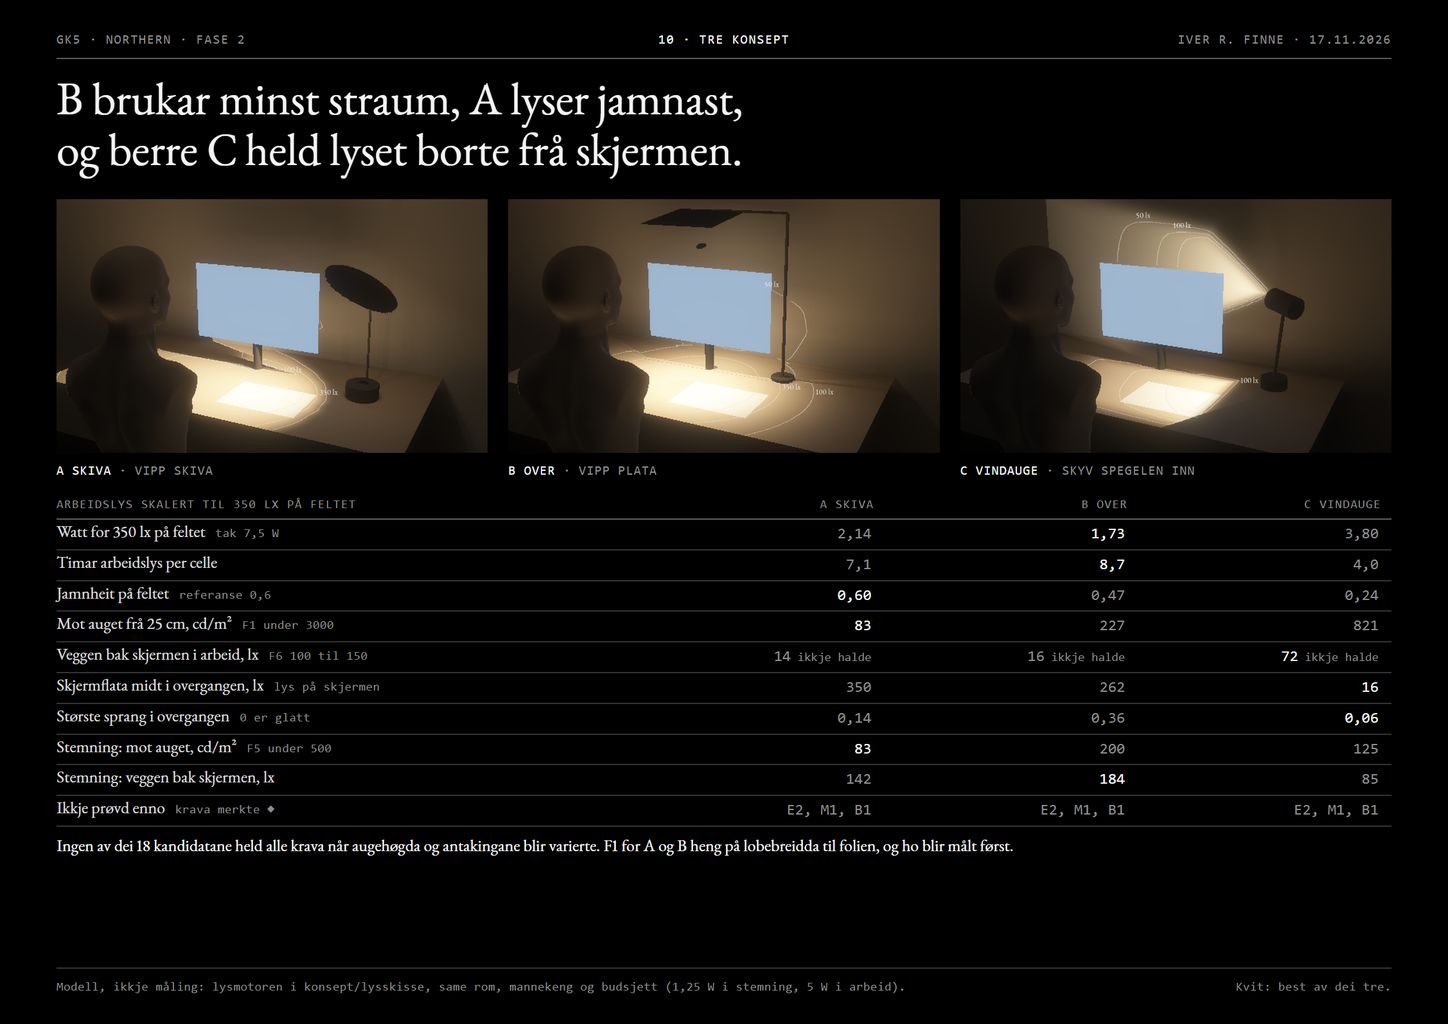
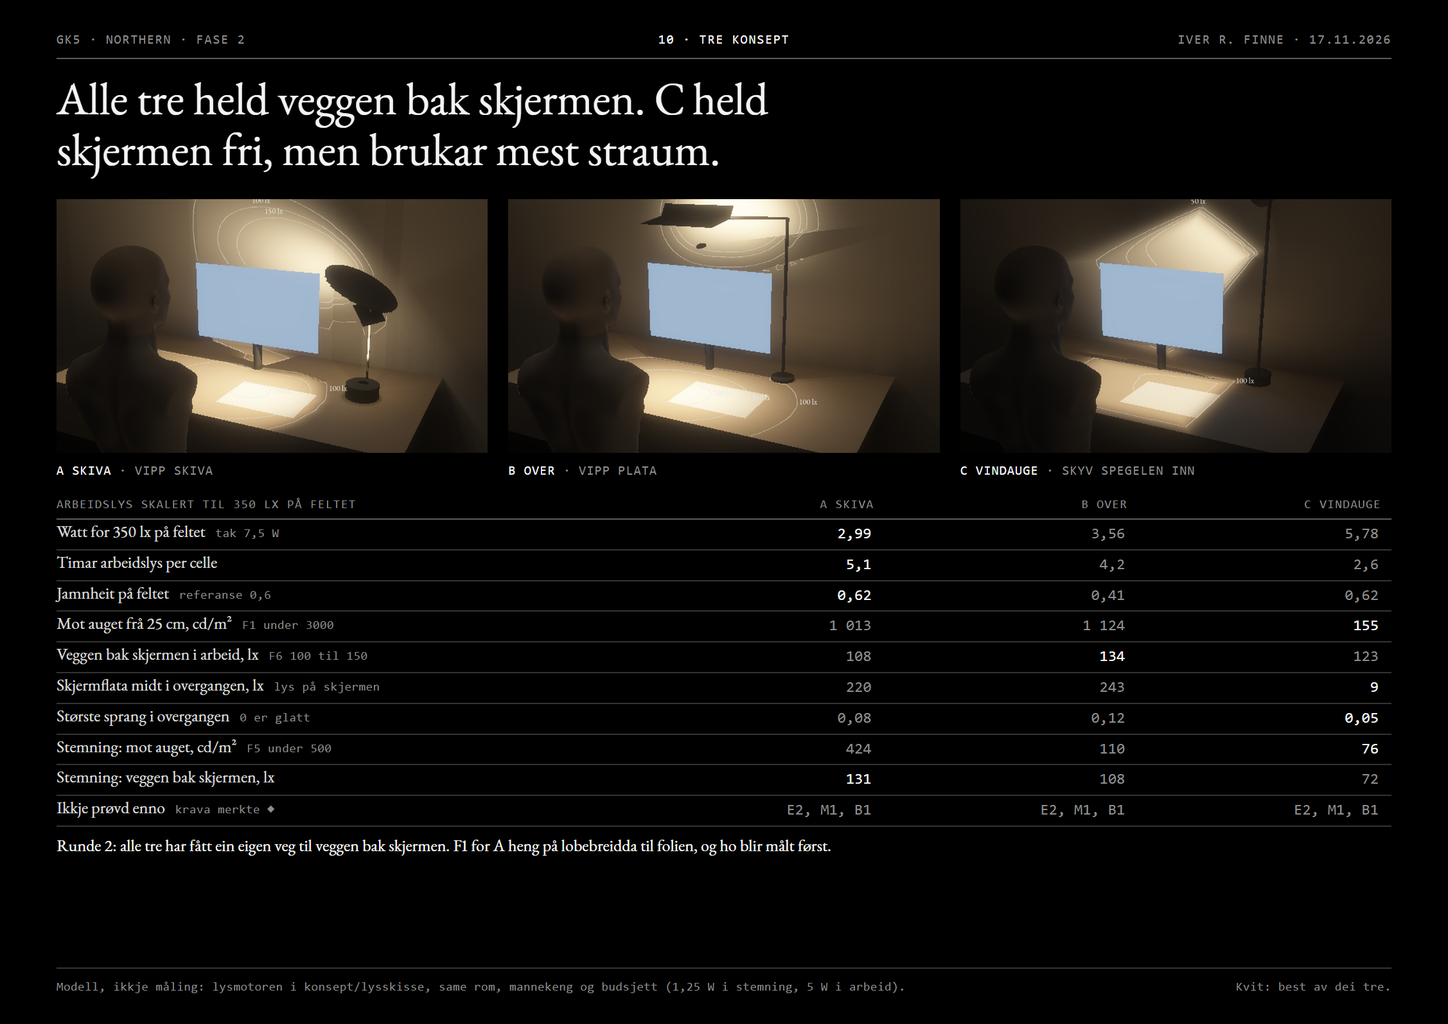
Autolagring 13.11 13:22: 11 filer

diff --git a/leveransar/03_konsept/side-11-konsept-a-skiva.html b/leveransar/03_konsept/side-11-konsept-a-skiva.html
@@ -28,30 +28,30 @@
     <span>Iver R. Finne · 17.11.2026</span>
   </header>
 
-  <h1 class="tittel">Skiva lyser jamnast av dei tre, men sveipar over skjermen på veg ned.</h1>
+  <h1 class="tittel">Skiva lyser jamnast og skiftar mjukast, men legg lys på skjermen.</h1>
 
   <main class="innhald">
     <div class="k12">
       <div class="rad1">
-        <figure><img src="bilete/A-stemning.png" alt=""><figcaption><b>Stemning</b> · 1,25&nbsp;W · 2200&nbsp;K · veggen bak skjermen 117&nbsp;lx</figcaption></figure>
-        <figure><img src="bilete/A-arbeid.png" alt=""><figcaption><b>Arbeid</b> · 3000&nbsp;K · feltet 504&nbsp;lx ved 5&nbsp;W</figcaption></figure>
+        <figure><img src="bilete/A-stemning.png" alt=""><figcaption><b>Stemning</b> · 1,25&nbsp;W · 2200&nbsp;K · veggen bak skjermen 131&nbsp;lx</figcaption></figure>
+        <figure><img src="bilete/A-arbeid.png" alt=""><figcaption><b>Arbeid</b> · 3000&nbsp;K · feltet 586&nbsp;lx ved 5&nbsp;W</figcaption></figure>
         <section>
           <p class="etikett">Gesten</p>
           <p class="gest">Vipp skiva.</p>
           <div class="tal4">
-            <div>3,47&nbsp;W<small>for 350&nbsp;lx på feltet · tak 7,5</small></div>
-            <div>0,63<small>jamnheit · referanse 0,6</small></div>
-            <div>672&nbsp;cd/m²<small>høgst mot auget, 25 til 60&nbsp;cm · F1 3000</small></div>
-            <div>4,3&nbsp;t<small>arbeidslys per 21700-celle</small></div>
+            <div>2,99&nbsp;W<small>for 350&nbsp;lx på feltet · tak 7,5</small></div>
+            <div>0,62<small>jamnheit · referanse 0,6</small></div>
+            <div>1&nbsp;013&nbsp;cd/m²<small>høgst mot auget, 25 til 60&nbsp;cm · F1 3000</small></div>
+            <div>5,1&nbsp;t<small>arbeidslys per 21700-celle</small></div>
           </div>
           <p class="etikett" style="margin-top: 10px;">Langs overgangen, lx</p>
-          <svg width="270" height="128" viewBox="0 0 270 128" xmlns="http://www.w3.org/2000/svg"><line x1="6" y1="104" x2="206" y2="104" class="strek"/><line x1="6" y1="74.1" x2="206" y2="74.1" class="haar"/><text x="6" y="71.1" class="graa">350&nbsp;lx</text><line x1="6" y1="18.5" x2="206" y2="18.5" class="haar"/><text x="6" y="15.5" class="graa">1000&nbsp;lx</text><polyline points="6.0,103.2 56.0,102.4 106.0,96.6 156.0,81.7 206.0,60.9" fill="none" stroke="#F4F4F4" stroke-width="1.6"/><circle cx="6.0" cy="103.2" r="2.2" fill="#F4F4F4"/><circle cx="56.0" cy="102.4" r="2.2" fill="#F4F4F4"/><circle cx="106.0" cy="96.6" r="2.2" fill="#F4F4F4"/><circle cx="156.0" cy="81.7" r="2.2" fill="#F4F4F4"/><circle cx="206.0" cy="60.9" r="2.2" fill="#F4F4F4"/><text x="213.0" y="63.9" fill="#F4F4F4">feltet</text><polyline points="6.0,96.1 56.0,89.4 106.0,84.7 156.0,85.1 206.0,88.5" fill="none" stroke="#9A9A9A" stroke-width="1.6" stroke-dasharray="4 3"/><circle cx="6.0" cy="96.1" r="2.2" fill="#9A9A9A"/><circle cx="56.0" cy="89.4" r="2.2" fill="#9A9A9A"/><circle cx="106.0" cy="84.7" r="2.2" fill="#9A9A9A"/><circle cx="156.0" cy="85.1" r="2.2" fill="#9A9A9A"/><circle cx="206.0" cy="88.5" r="2.2" fill="#9A9A9A"/><text x="213.0" y="91.5" fill="#9A9A9A">skjermflata</text><text x="6" y="119" class="graa">stemning</text><text x="206" y="119" class="graa" text-anchor="end">arbeid</text></svg>
+          <svg width="270" height="128" viewBox="0 0 270 128" xmlns="http://www.w3.org/2000/svg"><line x1="6" y1="104" x2="206" y2="104" class="strek"/><line x1="6" y1="74.1" x2="206" y2="74.1" class="haar"/><text x="6" y="71.1" class="graa">350&nbsp;lx</text><line x1="6" y1="18.5" x2="206" y2="18.5" class="haar"/><text x="6" y="15.5" class="graa">1000&nbsp;lx</text><polyline points="6.0,103.2 56.0,102.2 106.0,95.5 156.0,78.2 206.0,53.9" fill="none" stroke="#F4F4F4" stroke-width="1.6"/><circle cx="6.0" cy="103.2" r="2.2" fill="#F4F4F4"/><circle cx="56.0" cy="102.2" r="2.2" fill="#F4F4F4"/><circle cx="106.0" cy="95.5" r="2.2" fill="#F4F4F4"/><circle cx="156.0" cy="78.2" r="2.2" fill="#F4F4F4"/><circle cx="206.0" cy="53.9" r="2.2" fill="#F4F4F4"/><text x="213.0" y="56.9" fill="#F4F4F4">feltet</text><polyline points="6.0,95.1 56.0,89.1 106.0,85.2 156.0,84.3 206.0,87.5" fill="none" stroke="#9A9A9A" stroke-width="1.6" stroke-dasharray="4 3"/><circle cx="6.0" cy="95.1" r="2.2" fill="#9A9A9A"/><circle cx="56.0" cy="89.1" r="2.2" fill="#9A9A9A"/><circle cx="106.0" cy="85.2" r="2.2" fill="#9A9A9A"/><circle cx="156.0" cy="84.3" r="2.2" fill="#9A9A9A"/><circle cx="206.0" cy="87.5" r="2.2" fill="#9A9A9A"/><text x="213.0" y="90.5" fill="#9A9A9A">skjermflata</text><text x="6" y="119" class="graa">stemning</text><text x="206" y="119" class="graa" text-anchor="end">arbeid</text></svg>
         </section>
       </div>
       <div class="rad2">
-        <section><p class="etikett">Prinsipp</p><p class="kvit">Ei kjelde i foten lyser opp på ei bøygd spegelskive. Skiva vippar lyset frå veggen bak skjermen ned på arbeidsfeltet.</p><p class="graa">Fot, stong og skive: tre primærformer, som Northern. Næraste nabo: Verner Panton Reflect, som har fast, kvit skive.</p></section>
-        <section><p class="etikett">Skissemodell til 18.11</p><p>Folie på papp, Ø 250&nbsp;mm, på ein printa ribbe med boge R 1,2&nbsp;m. Telefonlykta i ein svart papprull i foten. Stolpen frå projektoren held skiva 41&nbsp;cm over bordet.</p><p class="graa">Føreseiing: Med bøyen er lågaste rute over 0,5 av snittet, flat under 0,45.</p></section>
-        <section><p class="etikett">Held ikkje enno</p><ul class="ikkje"><li>Midt i overgangen sveipar strålen over skjermen: 350&nbsp;lx på skjermflata.</li><li>I stemning ligg 142&nbsp;lx på skjermflata.</li><li>Veggen bak skjermen får 14&nbsp;lx i arbeid. F6 krev 100 til 150.</li><li>F1 kviler på lobebreidda. Folie på papp kan gje 1600 til 9000&nbsp;cd/m² frå 25&nbsp;cm.</li></ul></section>
+        <section><p class="etikett">Prinsipp</p><p class="kvit">Ei lykt i foten lyser på ei bøygd spegelskive som vippar lyset frå veggen ned på feltet. Ein fast flik på stolpen held veggen bak skjermen lys.</p><p class="graa">Fot, stong og skive som Northern. Fliken er eit fjerde element (mi tolking). Næraste nabo: Verner Panton Reflect, som har fast, kvit skive og ingen flik.</p></section>
+        <section><p class="etikett">Skissemodell til 18.11</p><p>Folie på papp, Ø 250&nbsp;mm, på ein printa ribbe med boge R 1,2&nbsp;m. To lykter i foten: éi på skiva, éi på fliken (12 × 8,4&nbsp;cm, folie og bakepapir) 30&nbsp;cm over bordet.</p><p class="graa">Føreseiing: Med bøyen er lågaste rute over 0,5 av snittet, flat under 0,45.</p></section>
+        <section><p class="etikett">Held ikkje enno</p><ul class="ikkje"><li>Spegelskiva legg 0,36 av feltluxen på skjermen i arbeid og 226&nbsp;lx midt i overgangen.</li><li>Fliken syner frå auget med 672&nbsp;cd/m² frå 25 og 47&nbsp;cm.</li><li>F1 krev ei skive med lobe under 4,5°. Folie på papp er ikkje målt.</li></ul></section>
       </div>
     </div>
   </main>

diff --git a/leveransar/03_konsept/side-10-tre-konsept.html b/leveransar/03_konsept/side-10-tre-konsept.html
@@ -24,7 +24,7 @@
     <span>Iver R. Finne · 17.11.2026</span>
   </header>
 
-  <h1 class="tittel">B brukar minst straum, A lyser jamnast, og berre C held lyset borte frå skjermen.</h1>
+  <h1 class="tittel">Alle tre held veggen bak skjermen. C held skjermen fri, men brukar mest straum.</h1>
 
   <main class="innhald">
     <div class="k12 tre">
@@ -35,9 +35,9 @@
     <section class="k12">
       <table class="samanlikning">
         <tr><th>Arbeidslys skalert til 350 lx på feltet</th><th class="tal">A Skiva</th><th class="tal">B Over</th><th class="tal">C Vindauge</th></tr>
-        <tr><td>Watt for 350 lx på feltet<small>tak 7,5 W</small></td><td class="tal best">3,47</td><td class="tal ">3,56</td><td class="tal ">5,78</td></tr><tr><td>Timar arbeidslys per celle<small></small></td><td class="tal best">4,3</td><td class="tal ">4,2</td><td class="tal ">2,6</td></tr><tr><td>Jamnheit på feltet<small>referanse 0,6</small></td><td class="tal best">0,63</td><td class="tal ">0,41</td><td class="tal ">0,62</td></tr><tr><td>Mot auget frå 25 cm, cd/m²<small>F1 under 3000</small></td><td class="tal ">672</td><td class="tal ">1&nbsp;124</td><td class="tal best">155</td></tr><tr><td>Veggen bak skjermen i arbeid, lx<small>F6 100 til 150</small></td><td class="tal ">105</td><td class="tal best">134</td><td class="tal ">123</td></tr><tr><td>Skjermflata midt i overgangen, lx<small>lys på skjermen</small></td><td class="tal ">226</td><td class="tal ">243</td><td class="tal best">9</td></tr><tr><td>Største sprang i overgangen<small>0 er glatt</small></td><td class="tal ">0,06</td><td class="tal ">0,12</td><td class="tal best">0,05</td></tr><tr><td>Stemning: mot auget, cd/m²<small>F5 under 500</small></td><td class="tal ">242</td><td class="tal ">110</td><td class="tal best">76</td></tr><tr><td>Stemning: veggen bak skjermen, lx<small></small></td><td class="tal best">117</td><td class="tal ">108</td><td class="tal ">72</td></tr><tr><td>Ikkje prøvd enno<small>krava merkte ◆</small></td><td class="tal graa">E2, M1, B1</td><td class="tal graa">E2, M1, B1</td><td class="tal graa">E2, M1, B1</td></tr>
+        <tr><td>Watt for 350 lx på feltet<small>tak 7,5 W</small></td><td class="tal best">2,99</td><td class="tal ">3,56</td><td class="tal ">5,78</td></tr><tr><td>Timar arbeidslys per celle<small></small></td><td class="tal best">5,1</td><td class="tal ">4,2</td><td class="tal ">2,6</td></tr><tr><td>Jamnheit på feltet<small>referanse 0,6</small></td><td class="tal best">0,62</td><td class="tal ">0,41</td><td class="tal ">0,62</td></tr><tr><td>Mot auget frå 25 cm, cd/m²<small>F1 under 3000</small></td><td class="tal ">1&nbsp;013</td><td class="tal ">1&nbsp;124</td><td class="tal best">155</td></tr><tr><td>Veggen bak skjermen i arbeid, lx<small>F6 100 til 150</small></td><td class="tal ">108</td><td class="tal best">134</td><td class="tal ">123</td></tr><tr><td>Skjermflata midt i overgangen, lx<small>lys på skjermen</small></td><td class="tal ">220</td><td class="tal ">243</td><td class="tal best">9</td></tr><tr><td>Største sprang i overgangen<small>0 er glatt</small></td><td class="tal ">0,08</td><td class="tal ">0,12</td><td class="tal best">0,05</td></tr><tr><td>Stemning: mot auget, cd/m²<small>F5 under 500</small></td><td class="tal ">424</td><td class="tal ">110</td><td class="tal best">76</td></tr><tr><td>Stemning: veggen bak skjermen, lx<small></small></td><td class="tal best">131</td><td class="tal ">108</td><td class="tal ">72</td></tr><tr><td>Ikkje prøvd enno<small>krava merkte ◆</small></td><td class="tal graa">E2, M1, B1</td><td class="tal graa">E2, M1, B1</td><td class="tal graa">E2, M1, B1</td></tr>
       </table>
-      <p class="liten kvit" style="margin-top: 8px;">Ingen av dei 18 kandidatane held alle krava når augehøgda og antakingane blir varierte. F1 for A og B heng på lobebreidda til folien, og ho blir målt først.</p>
+      <p class="liten kvit" style="margin-top: 8px;">Runde 2: alle tre har fått ein eigen veg til veggen bak skjermen. F1 for A heng på lobebreidda til folien, og ho blir målt først.</p>
     </section>
   </main>
 

diff --git a/leveransar/03_konsept/side-12-konsept-b-over.html b/leveransar/03_konsept/side-12-konsept-b-over.html
@@ -28,7 +28,7 @@
     <span>Iver R. Finne · 17.11.2026</span>
   </header>
 
-  <h1 class="tittel">Plata brukar minst straum og flyttar lyset heilt, men skiftet hoppar.</h1>
+  <h1 class="tittel">Plata held stemninga heilt av skjermen, men lyser ujamnt.</h1>
 
   <main class="innhald">
     <div class="k12">
@@ -49,9 +49,9 @@
         </section>
       </div>
       <div class="rad2">
-        <section><p class="etikett">Prinsipp</p><p class="kvit">Fresnelplata frå overheadprojektoren ligg over skjermkanten. Ho vippar lyset frå veggen bak skjermen ned på bordet.</p><p class="graa">Kroppen er byggjesettet, ikkje forma enno. Næraste nabo: BenQ ScreenBar Halo.</p></section>
-        <section><p class="etikett">Skissemodell til 18.11</p><p>Fresnelplata i ei pappramme med teiphengsel langs bakkanten. Stolpen klemt bak skjermen. Telefonlykta på skjermkanten i ein brønn av svart papp, 12&nbsp;cm under plata, og eitt eller to diffusorark på plata.</p><p class="graa">Føreseiing: Jamnheit 0,46 (0,35 til 0,55) med diffusorark, under 0,05 utan.</p></section>
-        <section><p class="etikett">Held ikkje enno</p><ul class="ikkje"><li>Overgangen hoppar: største sprang 0,36.</li><li>Veggen bak skjermen får 16&nbsp;lx i arbeid. F6 krev 100 til 150.</li><li>Dioden har lite margin. Brønnen må vere 50°: med 64° ser auget dioden frå 60&nbsp;cm, 140&nbsp;000&nbsp;cd/m².</li><li>Kroppen er stolpen frå byggjesettet, ikkje ei Northern-form.</li></ul></section>
+        <section><p class="etikett">Prinsipp</p><p class="kvit">Fresnelplata frå overheadprojektoren ligg over skjermkanten og er knekt. Den store delen vippar lyset frå veggen ned på bordet, fliken held veggen bak skjermen lys.</p><p class="graa">Kroppen er stolpen frå byggjesettet, ikkje forma enno. Næraste nabo: BenQ ScreenBar Halo.</p></section>
+        <section><p class="etikett">Skissemodell til 18.11</p><p>Fresnelplata i pappramme som vippar om midten, med ein flik av blank folie 60&nbsp;mm bak midtlina. Lykta i ein brønn av svart papp, 12&nbsp;cm under plata. To diffusorark.</p><p class="graa">Føreseiing: Jamnheit om lag 0,4. Veggen bak skjermen om lag ein tredel av feltet.</p></section>
+        <section><p class="etikett">Held ikkje enno</p><ul class="ikkje"><li>Jamnheita stoppar under 0,5: 0,41 med ark. Referansen 0,6 er ikkje nådd under 1500&nbsp;cd/m².</li><li>Strålen sveipar over skjermen midt i vippen: 243&nbsp;lx.</li><li>Frå 25&nbsp;cm ser auget 1124&nbsp;cd/m², under F5 men høgst av dei tre.</li></ul></section>
       </div>
     </div>
   </main>

diff --git a/leveransar/03_konsept/side-13-konsept-c-vindauge.html b/leveransar/03_konsept/side-13-konsept-c-vindauge.html
@@ -28,7 +28,7 @@
     <span>Iver R. Finne · 17.11.2026</span>
   </header>
 
-  <h1 class="tittel">Spegelen deler strålen: vindauget står, feltet kjem, og skjermen blir ikkje treft.</h1>
+  <h1 class="tittel">Spegelen deler strålen: skjermen får nesten ikkje lys, men det kostar straum.</h1>
 
   <main class="innhald">
     <div class="k12">
@@ -49,9 +49,9 @@
         </section>
       </div>
       <div class="rad2">
-        <section><p class="etikett">Prinsipp</p><p class="kvit">Ei linse teiknar eit vindauge av lys på veggen. Ein spegel glir inn i strålen og legg feltet på bordet, medan vindauget blir ståande.</p><p class="graa">Kroppen er ikkje forma enno. Næraste nabo: ingen kjend lampe deler strålen slik.</p></section>
-        <section><p class="etikett">Skissemodell til 18.11</p><p>Ei lupe eller ei vassfylt glaskule på Ø 70&nbsp;mm som linse. Maska i papp, ei trakt av folie, og frontflatespegelen frå projektoren på eit papphengsel rett etter linsa.</p><p class="graa">Føreseiing: Vindauget står i ro medan feltet kjem fram. Skjermen får under 0,15 av feltet heile vegen.</p></section>
-        <section><p class="etikett">Held ikkje enno</p><ul class="ikkje"><li>Maska slepp gjennom 0,47 av lyset, så arbeidslyset krev 3,8&nbsp;W.</li><li>Jamnheita er 0,24. Referansen er 0,6.</li><li>Linsa på om lag 60&nbsp;mm finst ikkje i byggjesettet.</li><li>Vindauget har skarp kant, som verdiordet mjuk utelukkar (mi tolking).</li></ul></section>
+        <section><p class="etikett">Prinsipp</p><p class="kvit">Ei vasskule teiknar eit vindauge av lys på veggen. Ein spegel glir inn i strålen og legg feltet på bordet, medan vindauget blir ståande.</p><p class="graa">Kroppen er ikkje forma enno. Spegelklaffen er synleg mekanikk. Næraste nabo: ingen kjend lampe deler strålen slik.</p></section>
+        <section><p class="etikett">Skissemodell til 18.11</p><p>Julekule av glas, Ø 70&nbsp;mm, fylt med vatn. Maske i papp og gråfilter på overheadfilm, kredittkort-fresnel som kondensor, frontflatespegelen på ei pappflik. Hovudet 70&nbsp;cm over bordet.</p><p class="graa">Føreseiing: Vindauget står i ro medan feltet kjem fram. Skjermen får under 0,15 av feltet heile vegen.</p></section>
+        <section><p class="etikett">Held ikkje enno</p><ul class="ikkje"><li>Arbeidslyset krev 5,8&nbsp;W og gjev 2,6 timar per celle.</li><li>Hovudet står 70&nbsp;cm over bordet, høgare enn ei bordlampe.</li><li>Gråfilteret som gjev jamnheita, kostar 1,6&nbsp;W.</li></ul></section>
       </div>
     </div>
   </main>

diff --git a/leveransar/03_konsept/lys/bygg_konsept.py b/leveransar/03_konsept/lys/bygg_konsept.py
@@ -16,43 +16,41 @@ UT = os.path.normpath(os.path.join(HER, '..'))
 TRE = os.path.normpath(os.path.join(HER, '..', '..', '..', 'konsept', 'tre'))
 NB = '&nbsp;'
 
+# Runde 2 av konsepta (konsept/tre/00-tre-konsept.md, 13.11.2026). Tala blir lesne frå tal-*.json.
 KONSEPT = {
     'A': dict(namn='Skiva', fil='ark-A-skiva.png', nr='11',
-              tittel='Skiva lyser jamnast av dei tre, men sveipar over skjermen på veg ned.',
-              prinsipp='Ei kjelde i foten lyser opp på ei bøygd spegelskive. Skiva vippar lyset frå veggen bak skjermen ned på arbeidsfeltet.',
-              northern='Fot, stong og skive: tre primærformer, som Northern.',
-              nabo='Verner Panton Reflect, som har fast, kvit skive.',
+              tittel='Skiva lyser jamnast og skiftar mjukast, men legg lys på skjermen.',
+              prinsipp='Ei lykt i foten lyser på ei bøygd spegelskive som vippar lyset frå veggen ned på feltet. Ein fast flik på stolpen held veggen bak skjermen lys.',
+              northern='Fot, stong og skive som Northern. Fliken er eit fjerde element (mi tolking).',
+              nabo='Verner Panton Reflect, som har fast, kvit skive og ingen flik.',
               gest='Vipp skiva.',
-              modell='Folie på papp, Ø 250' + NB + 'mm, på ein printa ribbe med boge R 1,2' + NB + 'm. Telefonlykta i ein svart papprull i foten. Stolpen frå projektoren held skiva 41' + NB + 'cm over bordet.',
+              modell='Folie på papp, Ø 250' + NB + 'mm, på ein printa ribbe med boge R 1,2' + NB + 'm. To lykter i foten: éi på skiva, éi på fliken (12 × 8,4' + NB + 'cm, folie og bakepapir) 30' + NB + 'cm over bordet.',
               fore='Med bøyen er lågaste rute over 0,5 av snittet, flat under 0,45.',
-              ikkje=['Midt i overgangen sveipar strålen over skjermen: 350' + NB + 'lx på skjermflata.',
-                     'I stemning ligg 142' + NB + 'lx på skjermflata.',
-                     'Veggen bak skjermen får 14' + NB + 'lx i arbeid. F6 krev 100 til 150.',
-                     'F1 kviler på lobebreidda. Folie på papp kan gje 1600 til 9000' + NB + 'cd/m² frå 25' + NB + 'cm.']),
+              ikkje=['Spegelskiva legg 0,36 av feltluxen på skjermen i arbeid og 226' + NB + 'lx midt i overgangen.',
+                     'Fliken syner frå auget med 672' + NB + 'cd/m² frå 25 og 47' + NB + 'cm.',
+                     'F1 krev ei skive med lobe under 4,5°. Folie på papp er ikkje målt.']),
     'B': dict(namn='Over', fil='ark-B-over.png', nr='12',
-              tittel='Plata brukar minst straum og flyttar lyset heilt, men skiftet hoppar.',
-              prinsipp='Fresnelplata frå overheadprojektoren ligg over skjermkanten. Ho vippar lyset frå veggen bak skjermen ned på bordet.',
-              northern='Kroppen er byggjesettet, ikkje forma enno.',
+              tittel='Plata held stemninga heilt av skjermen, men lyser ujamnt.',
+              prinsipp='Fresnelplata frå overheadprojektoren ligg over skjermkanten og er knekt. Den store delen vippar lyset frå veggen ned på bordet, fliken held veggen bak skjermen lys.',
+              northern='Kroppen er stolpen frå byggjesettet, ikkje forma enno.',
               nabo='BenQ ScreenBar Halo.',
               gest='Vipp plata.',
-              modell='Fresnelplata i ei pappramme med teiphengsel langs bakkanten. Stolpen klemt bak skjermen. Telefonlykta på skjermkanten i ein brønn av svart papp, 12' + NB + 'cm under plata, og eitt eller to diffusorark på plata.',
-              fore='Jamnheit 0,46 (0,35 til 0,55) med diffusorark, under 0,05 utan.',
-              ikkje=['Overgangen hoppar: største sprang 0,36.',
-                     'Veggen bak skjermen får 16' + NB + 'lx i arbeid. F6 krev 100 til 150.',
-                     'Dioden har lite margin. Brønnen må vere 50°: med 64° ser auget dioden frå 60' + NB + 'cm, 140' + NB + '000' + NB + 'cd/m².',
-                     'Kroppen er stolpen frå byggjesettet, ikkje ei Northern-form.']),
+              modell='Fresnelplata i pappramme som vippar om midten, med ein flik av blank folie 60' + NB + 'mm bak midtlina. Lykta i ein brønn av svart papp, 12' + NB + 'cm under plata. To diffusorark.',
+              fore='Jamnheit om lag 0,4. Veggen bak skjermen om lag ein tredel av feltet.',
+              ikkje=['Jamnheita stoppar under 0,5: 0,41 med ark. Referansen 0,6 er ikkje nådd under 1500' + NB + 'cd/m².',
+                     'Strålen sveipar over skjermen midt i vippen: 243' + NB + 'lx.',
+                     'Frå 25' + NB + 'cm ser auget 1124' + NB + 'cd/m², under F5 men høgst av dei tre.']),
     'C': dict(namn='Vindauge', fil='ark-C-vindauge.png', nr='13',
-              tittel='Spegelen deler strålen: vindauget står, feltet kjem, og skjermen blir ikkje treft.',
-              prinsipp='Ei linse teiknar eit vindauge av lys på veggen. Ein spegel glir inn i strålen og legg feltet på bordet, medan vindauget blir ståande.',
-              northern='Kroppen er ikkje forma enno.',
+              tittel='Spegelen deler strålen: skjermen får nesten ikkje lys, men det kostar straum.',
+              prinsipp='Ei vasskule teiknar eit vindauge av lys på veggen. Ein spegel glir inn i strålen og legg feltet på bordet, medan vindauget blir ståande.',
+              northern='Kroppen er ikkje forma enno. Spegelklaffen er synleg mekanikk.',
               nabo='ingen kjend lampe deler strålen slik.',
               gest='Skyv spegelen inn.',
-              modell='Ei lupe eller ei vassfylt glaskule på Ø 70' + NB + 'mm som linse. Maska i papp, ei trakt av folie, og frontflatespegelen frå projektoren på eit papphengsel rett etter linsa.',
+              modell='Julekule av glas, Ø 70' + NB + 'mm, fylt med vatn. Maske i papp og gråfilter på overheadfilm, kredittkort-fresnel som kondensor, frontflatespegelen på ei pappflik. Hovudet 70' + NB + 'cm over bordet.',
               fore='Vindauget står i ro medan feltet kjem fram. Skjermen får under 0,15 av feltet heile vegen.',
-              ikkje=['Maska slepp gjennom 0,47 av lyset, så arbeidslyset krev 3,8' + NB + 'W.',
-                     'Jamnheita er 0,24. Referansen er 0,6.',
-                     'Linsa på om lag 60' + NB + 'mm finst ikkje i byggjesettet.',
-                     'Vindauget har skarp kant, som verdiordet mjuk utelukkar (mi tolking).']),
+              ikkje=['Arbeidslyset krev 5,8' + NB + 'W og gjev 2,6 timar per celle.',
+                     'Hovudet står 70' + NB + 'cm over bordet, høgare enn ei bordlampe.',
+                     'Gråfilteret som gjev jamnheita, kostar 1,6' + NB + 'W.']),
 }
 
 
@@ -203,7 +201,7 @@ def oversyn(T):
         <tr><th>Arbeidslys skalert til 350 lx på feltet</th>{''.join(f'<th class="tal">{k} {K["namn"]}</th>' for k, K in KONSEPT.items())}</tr>
         {''.join(tr)}
       </table>
-      <p class="liten kvit" style="margin-top: 8px;">Ingen av dei 18 kandidatane held alle krava når augehøgda og antakingane blir varierte. F1 for A og B heng på lobebreidda til folien, og ho blir målt først.</p>
+      <p class="liten kvit" style="margin-top: 8px;">Runde 2: alle tre har fått ein eigen veg til veggen bak skjermen. F1 for A heng på lobebreidda til folien, og ho blir målt først.</p>
     </section>'''
     stil = '''  .tre { display: grid; grid-template-columns: repeat(3, minmax(0, 1fr)); column-gap: 16px; }
   .tre img { aspect-ratio: 1.7 / 1; object-fit: cover; object-position: center 55%; }
@@ -214,7 +212,7 @@ def oversyn(T):
   table.samanlikning td.best { color: var(--blekk); }
   table.samanlikning .feil { font-size: 9.5px; color: var(--graa); }
   table.samanlikning th.tal { width: 19%; }'''
-    side('side-10-tre-konsept.html', '10', 'Tre konsept', 'B brukar minst straum, A lyser jamnast, og berre C held lyset borte frå skjermen.', stil, innhald,
+    side('side-10-tre-konsept.html', '10', 'Tre konsept', 'Alle tre held veggen bak skjermen. C held skjermen fri, men brukar mest straum.', stil, innhald,
          KJELDE, 'Kvit: best av dei tre.')
 
 
